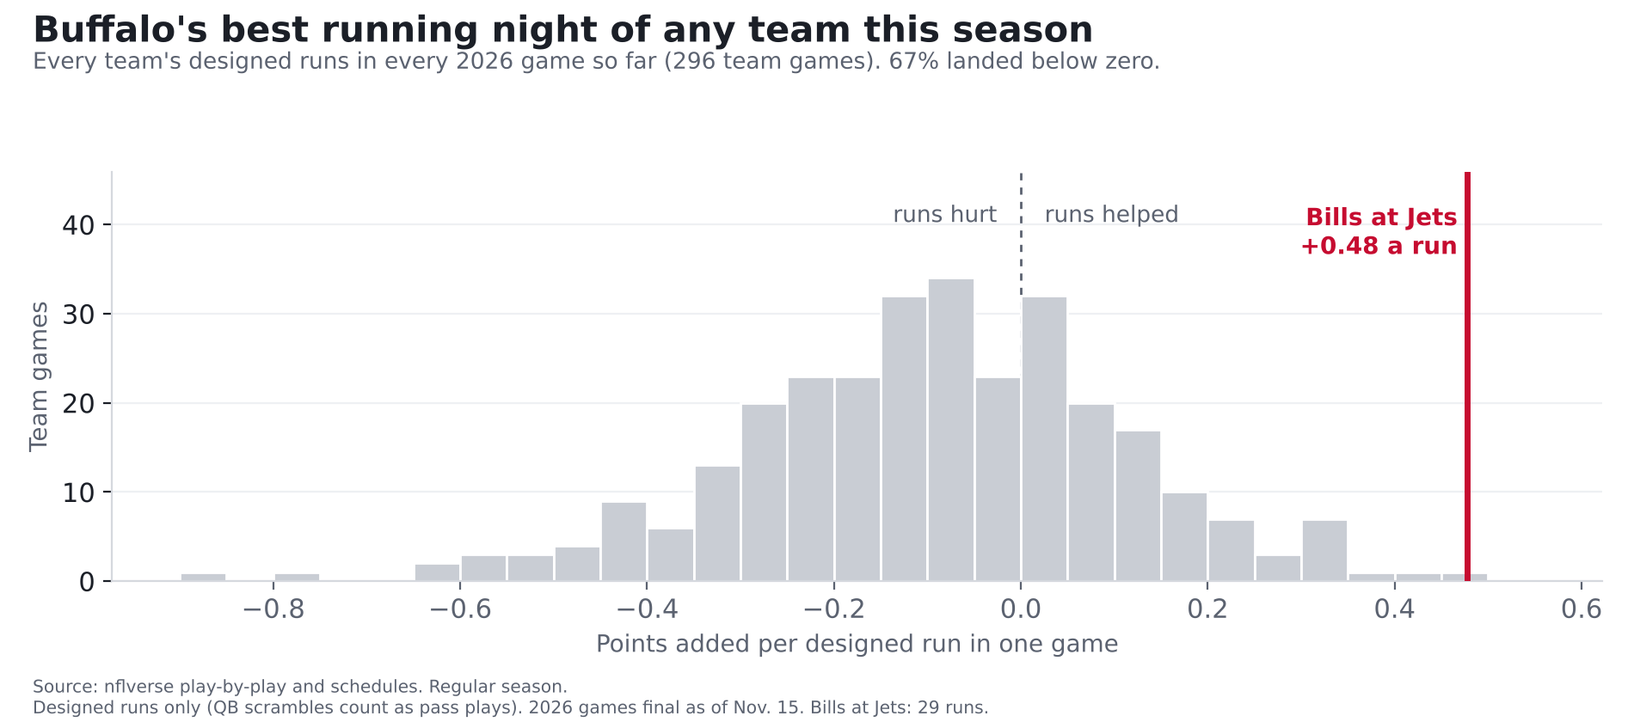
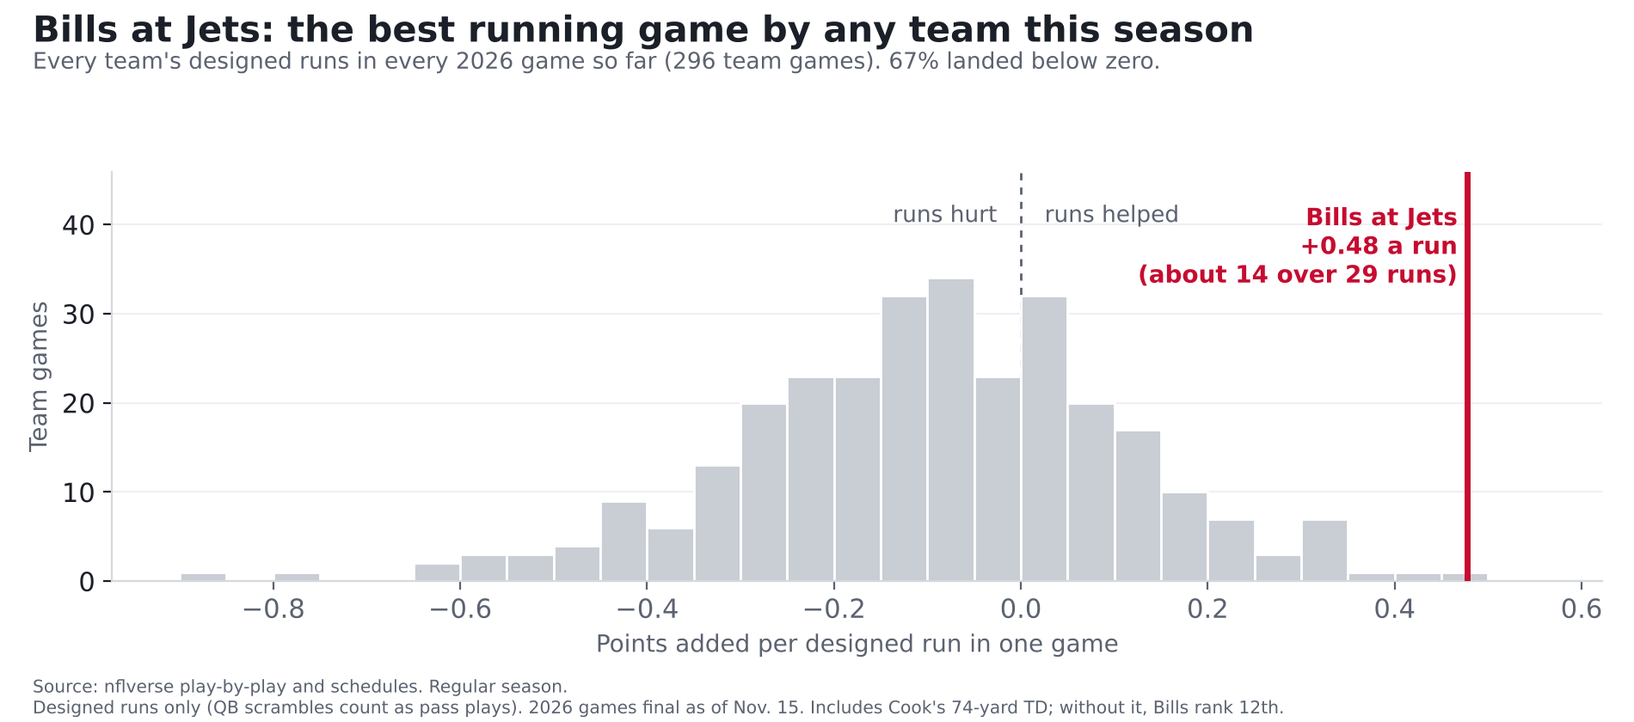
Bills-Jets post-game: reviewer fixes; Quant, Editor and final check pass
Claude-Session: https://claude.ai/code/session_01EpbAX7fMNT8LnsxAN6UoCp

Changed region(s): [[0.0311, 0.0, 0.7763, 0.0929], [0.4968, 0.9595, 0.7763, 0.9905], [0.6832, 0.3714, 0.9005, 0.4024]]

diff --git a/src/reports/wk10_postgame.py b/src/reports/wk10_postgame.py
@@ -119,6 +119,18 @@ def main():
     rv = rv[(rv.side == "off") & ~rv.game_id.isin(NOT_FINAL)].copy()
     buf_run_rank = int((rv.v > rv[(rv.game_id == GAME) & (rv.team == "BUF")].v.iloc[0]).sum()) + 1
     lg_run_below = float((rv.v < 0).mean())
+    others = rv[~((rv.game_id == GAME) & (rv.team == "BUF"))]
+    rank_wo_big = int((others.v > rest.epa.mean()).sum()) + 1
+    inj = query(f"""SELECT play_id, qtr, time, desc FROM raw_pbp WHERE game_id='{GAME}'
+                    AND (desc LIKE '%G.Smith was injured%' OR desc LIKE '%G.Smith has returned%') ORDER BY play_id""")
+    assert len(inj) == 2 and "injured" in inj.desc.iloc[0] and int(inj.qtr.iloc[0]) == 2 and int(inj.qtr.iloc[1]) == 3, inj
+    jd = query(f"""SELECT drive, MIN(play_id) p, GROUP_CONCAT(DISTINCT COALESCE(passer_player_id, rusher_player_id)) qbs FROM raw_pbp
+                   WHERE game_id='{GAME}' AND posteam='NYJ' AND qb_dropback=1 GROUP BY drive ORDER BY p""")
+    smith_q2 = d[(d.posteam == "NYJ") & (d.qb == SMITH) & (d.qtr == 2)]
+    assert int(smith_q2.play_id.max()) == int(inj.play_id.iloc[0]) and smith_q2.loc[smith_q2.play_id.idxmax()].att  # last throw of the half
+    assert not ((d.posteam == "NYJ") & (d.qtr == 2) & (d.play_id > inj.play_id.iloc[0])).any()
+    seq = list(jd.qbs)
+    assert seq[:4] == [SMITH] * 4 and seq[4] == KLUBNIK and seq[5] == SMITH and set(seq[6:]) == {KLUBNIK}, seq
     past_best = {y: game_values(y, "rush_epa").query("side == 'off' and team == 'BUF'").v.max() for y in (2023, 2024, 2025)}
     nyj_run = rv[(rv.game_id == GAME) & (rv.team == "NYJ")].iloc[0]
 
@@ -137,7 +149,8 @@ def main():
         a = x.groupby("defteam").points.agg(["sum", "size"])
         a["ppd"] = a["sum"] / a["size"]
         return a.loc["BUF", "ppd"], int(a.ppd.rank(method="min")["BUF"]), len(a), x.points.sum() / len(x)
-    d9, d10 = def_rank(PRE_THRU), def_rank(WEEK)
+    d7, d9, d10 = def_rank(7), def_rank(PRE_THRU), def_rank(WEEK)
+    assert d7[1] > d9[1] > d10[1]
     nxt = query(f"""SELECT gameday, away_team, home_team FROM raw_schedules WHERE season={SEASON}
                     AND (home_team='BUF' OR away_team='BUF') AND week={WEEK + 1}""").iloc[0]
     assert nxt.home_team == "BUF" and nxt.away_team == "MIA"
@@ -187,16 +200,16 @@ def main():
     bv = rv[(rv.game_id == GAME) & (rv.team == "BUF")].v.iloc[0]
     ax.axvline(0, color=MUTED, lw=1, ls=(0, (3, 3)), zorder=1)
     ax.axvline(bv, color=RED, lw=2.5, zorder=3)
-    ax.text(bv - 0.01, ax.get_ylim()[1] * 0.92, f"Bills at Jets\n{bv:+.2f} a run", ha="right", va="top", fontsize=10,
+    ax.text(bv - 0.01, ax.get_ylim()[1] * 0.92, f"Bills at Jets\n{bv:+.2f} a run\n(about {ru['BUF']['epa']:.0f} over {ru['BUF']['n']} runs)", ha="right", va="top", fontsize=10,
             color=RED, fontweight="bold")
     ax.text(-0.01, ax.get_ylim()[1] * 0.92, "runs hurt  ", ha="right", va="top", fontsize=9.5, color=MUTED)
     ax.text(0.01, ax.get_ylim()[1] * 0.92, "  runs helped", ha="left", va="top", fontsize=9.5, color=MUTED)
     ax.set_xlabel("Points added per designed run in one game", fontsize=10, color=MUTED)
     ax.set_ylabel("Team games", fontsize=10, color=MUTED)
     ax.grid(axis="y", color="#EEF0F3"); ax.set_axisbelow(True)
-    finish(fig, "Buffalo's best running night of any team this season",
+    finish(fig, "Bills at Jets: the best running game by any team this season",
            f"Every team's designed runs in every 2026 game so far ({len(rv)} team games). {lg_run_below:.0%} landed below zero.",
-           f"Designed runs only (QB scrambles count as pass plays). 2026 games final as of Nov. 15. Bills at Jets: {ru['BUF']['n']} runs.")
+           f"Designed runs only (QB scrambles count as pass plays). 2026 games final as of Nov. 15. Includes Cook's 74-yard TD; without it, Bills rank {ordn(rank_wo_big)}.")
     fig.savefig(OUT / "wk10d-run-nights.png"); plt.close(fig)
 
     # ---- scorecard table, plain English
@@ -216,8 +229,9 @@ def main():
     md = f"""# Bills {buf}, Jets {nyj}: our win call held, our run calls didn't
 
 **We gave the Bills a 75% chance to win and projected them for {proj['BUF']:.1f} points. They won {buf}-{nyj}. Our surest call, that the Bills'
-passing game would help more than it hurt, hit too. But we missed three calls, all built on the same idea: that running games usually hurt more
-than they help. Buffalo's designed runs had the best night of any team's this season, and the Jets' runs finished just above zero.**
+passing game would help more than it hurt, hit too. But we missed three calls. Two were run calls, built on the idea that running games usually
+hurt more than they help: counting every run, Buffalo's designed runs had the best game of any team's this season, and the Jets' runs helped, just barely. The third,
+on the Jets' passing game, was close to a coin flip.**
 
 *Bills at Jets, Sunday, Nov. 15, MetLife Stadium. Our prediction ran Saturday ([our preview](bills-jets-prediction.html)), and every call was
 logged on the [Ledger](../ledger.html) before kickoff. Here's how they did. League numbers are as of {AS_OF}.*
@@ -230,10 +244,12 @@ logged on the [Ledger](../ledger.html) before kickoff. Here's how they did. Leag
 |---|---|---|---|
 {rows}
 
+*Running-game calls count designed runs only; quarterback scrambles count as pass plays.*
+
 **What "helps" and "hurts" mean.** Every snap starts from a spot where an average offense can expect a certain number of points from the drive.
 A good play raises that number and a bad one lowers it. In the first quarter, on fourth-and-{int(ex.ydstogo)} from his own {100 - int(ex.yardline_100)},
-Josh Allen ran for {int(ex.yards_gained)} yards. That doesn't sound like much, but it kept the drive alive: Buffalo could expect about {ex.ep:.1f} points
-before the snap and about {ex.ep + ex.epa:.1f} after it, so the play was worth about {ex.epa:.1f} points. Add up every designed run, good and bad, and you get whether a team's running
+Josh Allen ran for {int(ex.yards_gained)} yards. That doesn't sound like much, but it kept the drive alive. Before the snap, Buffalo was a little more likely to give up
+the next score than to get it (about {ex.ep:.1f} points). After it, Buffalo could expect about {ex.ep + ex.epa:.1f}, so the play was worth about {ex.epa:.1f} points. Add up every designed run, good and bad, and you get whether a team's running
 game helped or hurt. Buffalo's added about {ru['BUF']['epa']:.0f}. That's not {ru['BUF']['epa']:.0f} points on the scoreboard. It means the runs kept
 moving drives toward points.
 
@@ -241,41 +257,41 @@ moving drives toward points.
 
 Our model expected Buffalo's designed runs to cost a little, the way most teams' do. In {lg_run_below:.0%} of {len(rv)} team games this season,
 a team's designed runs added up to less than zero. Instead, the Bills ran {ru['BUF']['n']} times for {ru['BUF']['yds']} yards, and the runs added
-about {ru['BUF']['epa']:.0f} points. Play for play, that's the best running night of any team this season ({ordn(buf_run_rank)} of {len(rv)}), and better
-than any Bills game in 2023, 2024 or 2025.
+about {ru['BUF']['epa']:.0f} points. Counting every run, that's the best running game by any team this season ({ordn(buf_run_rank)} of {len(rv)}),
+and better than any Bills game in 2023, 2024 or 2025. That counts James Cook's late 74-yard touchdown; without it, the game would rank
+{ordn(rank_wo_big)}. One game and {ru['BUF']['n']} runs is a small sample.
 
-![Every team's running night this season](wk10d-run-nights.png)
+![Every team's running game this season](wk10d-run-nights.png)
 
-**Was it one big run?** Partly. James Cook's 74-yard touchdown run, with {big_clock} left and the game already decided, was worth about {big.epa:.1f}
-points by itself. Take it out and Buffalo's other {len(rest)} designed runs still added about {rest.epa.sum():.0f} points. Count only the runs while the
+**Was it one big run?** Partly. Cook's 74-yard touchdown run, with {big_clock} left and the game all but decided (Buffalo had a
+{big.wp:.0%} chance to win), was worth about {big.epa:.1f} points by itself. Take it out and Buffalo's other {len(rest)} designed runs still added about {rest.epa.sum():.0f} points. Count only the runs while the
 game was still in doubt (each team with at least a 10% chance to win) and they still helped. Cook finished with {len(cook)} carries for
 {int(cook.yards_gained.sum())} yards. Allen's {len(allen)} designed runs gained only {int(allen.yards_gained.sum())} yards but added about {allen.epa.sum():.0f}
 points: two fourth-and-1 conversions and two 1-yard touchdowns. So this miss wasn't bad luck on one play. Buffalo ran the ball well
 all day, and our model didn't see it coming.
 
 **The Jets' runs: a coin on its edge.** We gave a 75% chance that the Jets' designed runs would hurt more than they helped. Over {ru['NYJ']['n']} runs
-they added {nyj_run.num:.1f} points, just barely above zero. By the rule we set before kickoff, that's a miss, and it counts. Last week, our call on
-the Bills' passing game hit by an even smaller margin.
+they added {nyj_run.num:.1f} points, just barely above zero. By the rule we set before kickoff, that's a miss, and it counts.
 
-## What we got right: the passing games and the win
+## The passing games and the win
 
 On {q['BUF']['db']} pass plays, Allen went {q['BUF']['cmp']} of {q['BUF']['att']} for {q['BUF']['yds']} yards with
 {q['BUF']['ints']} interception, and the passing game added about {q['BUF']['epa']:.0f} points. That's the call we gave 80%, and it hit.
 
-The Jets used two quarterbacks. Geno Smith ({jq['smith']['cmp']} of {jq['smith']['att']}, {jq['smith']['yds']} yards) and rookie Cade Klubnik split
-the third quarter, and Klubnik played the fourth ({jq['klubnik']['cmp']} of {jq['klubnik']['att']}, {jq['klubnik']['yds']} yards, {jq['klubnik']['ints']} interception,
-sacked {jq['klubnik']['sacks']} times). Together, the Jets' passing game cost them about {abs(q['NYJ']['epa']):.0f} points over {q['NYJ']['db']} pass plays.
+The Jets used two quarterbacks. Geno Smith started and was hurt on his last throw before halftime. Rookie Cade Klubnik opened the
+second half, Smith came back for one drive, and Klubnik played the rest. Smith went {jq['smith']['cmp']} of {jq['smith']['att']} for {jq['smith']['yds']} yards;
+Klubnik went {jq['klubnik']['cmp']} of {jq['klubnik']['att']} for {jq['klubnik']['yds']} yards with {jq['klubnik']['ints']} interception and was
+sacked {jq['klubnik']['sacks']} times. Together, the Jets' passing game cost them about {abs(q['NYJ']['epa']):.0f} points over {q['NYJ']['db']} pass plays.
 We had given 55% that it would help more than it hurt, close to a coin flip, so it's a miss, but not a confident one.
 
 The Jets scored {nyj} points on {int(drives.loc['NYJ', 'n'])} drives: {nyj_fg} field goals, no touchdowns, {nyj_to} turnovers and {nyj_downs} turnover on downs.
-Buffalo scored {buf} on {int(drives.loc['BUF', 'n'])} drives, with {buf_td} touchdowns. The Bills now allow about {d10[0]:.2f} points a drive
-({ordn(d10[1])} of {d10[2]} teams, league average {d10[3]:.2f}). They were {ordn(d9[1])} before Sunday.
+Buffalo scored {buf} on {int(drives.loc['BUF', 'n'])} drives, with {buf_td} touchdowns.
 
 ## The record
 
 **How we grade.** A call is a hit when the side we gave 50% or more happens. We also score every call by how far our chance was from what
 happened, squared, so a confident miss costs more than a timid one. This week our five calls scored {week_brier:.2f}; guessing 50/50 on every call
-would score 0.25, and lower is better. So this week we did worse than a coin flip, mostly because of the two run calls we were sure about.
+would score 0.25, and lower is better. So this week we did worse than a coin flip, mostly because of the two run calls we were most confident in.
 Across all {len(allg)} graded calls on the Ledger, Bills and Sabres, we're {all_hits} for {len(allg)} with a score of {all_brier:.2f}, a little better
 than 50/50. That's still a small record. It grows every week, misses included.
 
@@ -283,8 +299,10 @@ than 50/50. That's still a small record. It grows every week, misses included.
 
 - **Run calls need a better model.** Our run calls lean hard on "running games usually hurt," and two of them missed this week. Before we put
   run calls at 75% again, we'll check how often that confidence has held up for strong running teams.
-- **Our win projection was close.** We said {proj['BUF']:.1f} for Buffalo and they scored {buf}. The Jets' {nyj} came in well under our
+- **Our Bills score was close; the Jets' wasn't.** We said {proj['BUF']:.1f} for Buffalo and they scored {buf}. The Jets' {nyj} came in well under our
   {proj['NYJ']:.1f}, but inside the range we expected 8 games in 10 to land ({rng['NYJ'][0]:.0f} to {rng['NYJ'][1]:.0f}).
+- **The defense keeps climbing.** Buffalo now allows about {d10[0]:.2f} points a drive ({ordn(d10[1])} of {d10[2]} teams, league average
+  {d10[3]:.2f}). It was {ordn(d9[1])} before Sunday and {ordn(d7[1])} after week 7. Four teams hadn't played yet when we ran this, so that rank can still move.
 - **Next:** the Bills host Miami on {nxt_day}, with our predictions logged before kickoff.
 
 ## For the stat-heads
@@ -300,9 +318,10 @@ than 50/50. That's still a small record. It grows every week, misses included.
 - BUF EPA per designed run {ru['BUF']['epa'] / ru['BUF']['n']:+.3f} (n={ru['BUF']['n']}); without play {int(big.play_id)} (74-yard TD, win probability
   {big.wp:.2f} before the snap) {rest.epa.mean():+.3f} (n={len(rest)}); win probability 0.10-0.90 only {close.epa.mean():+.3f} (n={len(close)}). Rank 1 = best
   of {len(rv)} 2026 team-games final as of {AS_OF}. Best BUF game by the same measure: 2023 {past_best[2023]:+.3f}, 2024 {past_best[2024]:+.3f},
-  2025 {past_best[2025]:+.3f}.
-- NYJ dropbacks: Smith {jq['smith']['db']} (EPA {jq['smith']['epa']:+.1f}), Klubnik {jq['klubnik']['db']} (EPA {jq['klubnik']['epa']:+.1f}). We don't
-  say why the Jets changed quarterbacks; the play-by-play doesn't tell us.
+  2025 {past_best[2025]:+.3f}. Without play {int(big.play_id)}, BUF would rank {rank_wo_big} of {len(rv)}.
+- NYJ dropbacks: Smith {jq['smith']['db']} (EPA {jq['smith']['epa']:+.1f}), Klubnik {jq['klubnik']['db']} (EPA {jq['klubnik']['epa']:+.1f}). The play-by-play
+  notes Smith was injured on play {int(inj.play_id.iloc[0])} ({inj.time.iloc[0]}, 2nd quarter) and returned on play {int(inj.play_id.iloc[1])} ({inj.time.iloc[1]}, 3rd quarter);
+  it doesn't say why Klubnik took over again after that drive.
 - BUF points allowed per drive, regular season: through week {PRE_THRU} {d9[0]:.3f} ({d9[1]} of {d9[2]}); through week {WEEK} games final as of this
   run {d10[0]:.3f} ({d10[1]} of {d10[2]}).
 - Hit rule: the side given 50% or more happens (`ledger.summary`). The logged Ledger wording for P0012-P0016 is unchanged; this story uses the
@@ -312,7 +331,7 @@ than 50/50. That's still a small record. It grows every week, misses included.
     (OUT / f"{SLUG}.hero.json").write_text(json.dumps({
         "label": "Sunday, graded",
         "big": [[buf, f"Bills (we said {proj['BUF']:.1f})"], [nyj, f"Jets (we said {proj['NYJ']:.1f})"]],
-        "note": f"{week_hits} of 5 Ledger calls right: the win and the Bills' passing game. All three misses were run calls.",
+        "note": f"{week_hits} of 5 Ledger calls right: the win and the Bills' passing game. Two of the three misses were run calls.",
         "explainer": {"kicker": "Receipts", "title": "Every call graded, hit or miss.",
                       "text": "Our calls' score this week vs. guessing 50/50 on every one (lower is better):",
                       "fmt": "score", "bars": [["Our calls", round(float(week_brier), 2)], ["50/50 guess", 0.25]]},

diff --git a/src/site/build.py b/src/site/build.py
@@ -19,7 +19,7 @@ SITE = ROOT / "site"
 DOMAIN = "https://buffaloquant.com"
 ARTICLES = [  # newest first: (slug, report file, date, kicker, dek, hero image)
     ("bills-jets-postgame", "2026-wk10-postgame.md", "2026-11-15", "Bills &middot; Week 10 post-game",
-     "We projected the Bills for 29.9. They scored 31 and won, and our surest call, on Buffalo's passing game, hit. All three misses were run calls: the Bills had the best running night of any team this season.",
+     "We projected the Bills for 29.9. They scored 31 and won, and our surest call, on Buffalo's passing game, hit. Two of our three misses were run calls: counting every run, the Bills had the best running game of any team this season.",
      "wk10d-proj-vs-final.png"),
     ("bills-jets-prediction", "2026-wk10-bills-at-jets.md", "2026-11-14", "Bills &middot; Week 10 preview",
      "We project Bills 29.9, Jets 22.1: a 75% chance Buffalo wins. The biggest mismatch is the Bills' passing game against one of the NFL's leakiest pass defenses.",

diff --git a/reports/2026-wk10-postgame.md b/reports/2026-wk10-postgame.md
@@ -1,8 +1,9 @@
 # Bills 31, Jets 12: our win call held, our run calls didn't
 
 **We gave the Bills a 75% chance to win and projected them for 29.9 points. They won 31-12. Our surest call, that the Bills'
-passing game would help more than it hurt, hit too. But we missed three calls, all built on the same idea: that running games usually hurt more
-than they help. Buffalo's designed runs had the best night of any team's this season, and the Jets' runs finished just above zero.**
+passing game would help more than it hurt, hit too. But we missed three calls. Two were run calls, built on the idea that running games usually
+hurt more than they help: counting every run, Buffalo's designed runs had the best game of any team's this season, and the Jets' runs helped, just barely. The third,
+on the Jets' passing game, was close to a coin flip.**
 
 *Bills at Jets, Sunday, Nov. 15, MetLife Stadium. Our prediction ran Saturday ([our preview](bills-jets-prediction.html)), and every call was
 logged on the [Ledger](../ledger.html) before kickoff. Here's how they did. League numbers are as of Sunday night, Nov. 15 (the Sunday and Monday night games weren't final yet).*
@@ -19,10 +20,12 @@ logged on the [Ledger](../ledger.html) before kickoff. Here's how they did. Leag
 | Bills' running game (designed runs) hurts more than it helps | 66% | Helped: added about 14 points over 29 designed runs | **Miss** |
 | Jets' running game (designed runs) hurts more than it helps | 75% | Helped: added 1.1 points over 20 designed runs | **Miss** |
 
+*Running-game calls count designed runs only; quarterback scrambles count as pass plays.*
+
 **What "helps" and "hurts" mean.** Every snap starts from a spot where an average offense can expect a certain number of points from the drive.
 A good play raises that number and a bad one lowers it. In the first quarter, on fourth-and-1 from his own 37,
-Josh Allen ran for 2 yards. That doesn't sound like much, but it kept the drive alive: Buffalo could expect about -0.5 points
-before the snap and about 1.8 after it, so the play was worth about 2.3 points. Add up every designed run, good and bad, and you get whether a team's running
+Josh Allen ran for 2 yards. That doesn't sound like much, but it kept the drive alive. Before the snap, Buffalo was a little more likely to give up
+the next score than to get it (about -0.5 points). After it, Buffalo could expect about 1.8, so the play was worth about 2.3 points. Add up every designed run, good and bad, and you get whether a team's running
 game helped or hurt. Buffalo's added about 14. That's not 14 points on the scoreboard. It means the runs kept
 moving drives toward points.
 
@@ -30,41 +33,41 @@ moving drives toward points.
 
 Our model expected Buffalo's designed runs to cost a little, the way most teams' do. In 67% of 296 team games this season,
 a team's designed runs added up to less than zero. Instead, the Bills ran 29 times for 204 yards, and the runs added
-about 14 points. Play for play, that's the best running night of any team this season (1st of 296), and better
-than any Bills game in 2023, 2024 or 2025.
+about 14 points. Counting every run, that's the best running game by any team this season (1st of 296),
+and better than any Bills game in 2023, 2024 or 2025. That counts James Cook's late 74-yard touchdown; without it, the game would rank
+12th. One game and 29 runs is a small sample.
 
-![Every team's running night this season](wk10d-run-nights.png)
+![Every team's running game this season](wk10d-run-nights.png)
 
-**Was it one big run?** Partly. James Cook's 74-yard touchdown run, with 4:52 left and the game already decided, was worth about 6.4
-points by itself. Take it out and Buffalo's other 28 designed runs still added about 7 points. Count only the runs while the
+**Was it one big run?** Partly. Cook's 74-yard touchdown run, with 4:52 left and the game all but decided (Buffalo had a
+98% chance to win), was worth about 6.4 points by itself. Take it out and Buffalo's other 28 designed runs still added about 7 points. Count only the runs while the
 game was still in doubt (each team with at least a 10% chance to win) and they still helped. Cook finished with 18 carries for
 157 yards. Allen's 4 designed runs gained only 6 yards but added about 6
 points: two fourth-and-1 conversions and two 1-yard touchdowns. So this miss wasn't bad luck on one play. Buffalo ran the ball well
 all day, and our model didn't see it coming.
 
 **The Jets' runs: a coin on its edge.** We gave a 75% chance that the Jets' designed runs would hurt more than they helped. Over 20 runs
-they added 1.1 points, just barely above zero. By the rule we set before kickoff, that's a miss, and it counts. Last week, our call on
-the Bills' passing game hit by an even smaller margin.
+they added 1.1 points, just barely above zero. By the rule we set before kickoff, that's a miss, and it counts.
 
-## What we got right: the passing games and the win
+## The passing games and the win
 
 On 22 pass plays, Allen went 11 of 21 for 196 yards with
 1 interception, and the passing game added about 5 points. That's the call we gave 80%, and it hit.
 
-The Jets used two quarterbacks. Geno Smith (13 of 21, 148 yards) and rookie Cade Klubnik split
-the third quarter, and Klubnik played the fourth (11 of 20, 137 yards, 1 interception,
-sacked 3 times). Together, the Jets' passing game cost them about 9 points over 48 pass plays.
+The Jets used two quarterbacks. Geno Smith started and was hurt on his last throw before halftime. Rookie Cade Klubnik opened the
+second half, Smith came back for one drive, and Klubnik played the rest. Smith went 13 of 21 for 148 yards;
+Klubnik went 11 of 20 for 137 yards with 1 interception and was
+sacked 3 times. Together, the Jets' passing game cost them about 9 points over 48 pass plays.
 We had given 55% that it would help more than it hurt, close to a coin flip, so it's a miss, but not a confident one.
 
 The Jets scored 12 points on 11 drives: 4 field goals, no touchdowns, 2 turnovers and 1 turnover on downs.
-Buffalo scored 31 on 11 drives, with 4 touchdowns. The Bills now allow about 1.99 points a drive
-(14th of 32 teams, league average 2.05). They were 16th before Sunday.
+Buffalo scored 31 on 11 drives, with 4 touchdowns.
 
 ## The record
 
 **How we grade.** A call is a hit when the side we gave 50% or more happens. We also score every call by how far our chance was from what
 happened, squared, so a confident miss costs more than a timid one. This week our five calls scored 0.28; guessing 50/50 on every call
-would score 0.25, and lower is better. So this week we did worse than a coin flip, mostly because of the two run calls we were sure about.
+would score 0.25, and lower is better. So this week we did worse than a coin flip, mostly because of the two run calls we were most confident in.
 Across all 16 graded calls on the Ledger, Bills and Sabres, we're 10 for 16 with a score of 0.24, a little better
 than 50/50. That's still a small record. It grows every week, misses included.
 
@@ -72,8 +75,10 @@ than 50/50. That's still a small record. It grows every week, misses included.
 
 - **Run calls need a better model.** Our run calls lean hard on "running games usually hurt," and two of them missed this week. Before we put
   run calls at 75% again, we'll check how often that confidence has held up for strong running teams.
-- **Our win projection was close.** We said 29.9 for Buffalo and they scored 31. The Jets' 12 came in well under our
+- **Our Bills score was close; the Jets' wasn't.** We said 29.9 for Buffalo and they scored 31. The Jets' 12 came in well under our
   22.1, but inside the range we expected 8 games in 10 to land (10 to 34).
+- **The defense keeps climbing.** Buffalo now allows about 1.99 points a drive (14th of 32 teams, league average
+  2.05). It was 16th before Sunday and 30th after week 7. Four teams hadn't played yet when we ran this, so that rank can still move.
 - **Next:** the Bills host Miami on Sunday, Nov. 22, with our predictions logged before kickoff.
 
 ## For the stat-heads
@@ -89,9 +94,10 @@ than 50/50. That's still a small record. It grows every week, misses included.
 - BUF EPA per designed run +0.477 (n=29); without play 3897 (74-yard TD, win probability
   0.98 before the snap) +0.267 (n=28); win probability 0.10-0.90 only +0.325 (n=24). Rank 1 = best
   of 296 2026 team-games final as of Sunday night, Nov. 15 (the Sunday and Monday night games weren't final yet). Best BUF game by the same measure: 2023 +0.269, 2024 +0.333,
-  2025 +0.432.
-- NYJ dropbacks: Smith 22 (EPA -3.4), Klubnik 26 (EPA -5.5). We don't
-  say why the Jets changed quarterbacks; the play-by-play doesn't tell us.
+  2025 +0.432. Without play 3897, BUF would rank 12 of 296.
+- NYJ dropbacks: Smith 22 (EPA -3.4), Klubnik 26 (EPA -5.5). The play-by-play
+  notes Smith was injured on play 2022 (00:25, 2nd quarter) and returned on play 2656 (07:54, 3rd quarter);
+  it doesn't say why Klubnik took over again after that drive.
 - BUF points allowed per drive, regular season: through week 9 2.101 (16 of 32); through week 10 games final as of this
   run 1.990 (14 of 32).
 - Hit rule: the side given 50% or more happens (`ledger.summary`). The logged Ledger wording for P0012-P0016 is unchanged; this story uses the

diff --git a/reports/reviews/2026-wk10-postgame-quant.md b/reports/reviews/2026-wk10-postgame-quant.md
@@ -1,0 +1,46 @@
+# Quant re-check (stage 2, revised text): reports/2026-wk10-postgame.md
+
+**Verdict: PASS (publish).** All 7 required fixes from the first review are applied and correct. The new numbers and claims re-derive from the database (checks below). There are no new issues.
+
+## The 7 fixes
+1. **Lead:** names two run-call misses plus the Jets passing-game near coin flip. This matches the ledger: P0014, P0015 and P0016 missed.
+2. **Hero note and site dek:** both say "Two of the three misses were run calls." The dek adds "counting every run" and "running game".
+3. **Heading:** "The passing games and the win".
+4. **QB sequence:** verified from raw_pbp, by drive, using the passer or the rusher on scrambles.
+   - Smith ran NYJ drives 2, 4, 6 and 8. Klubnik ran drive 10. Smith ran drive 12. Klubnik ran drives 14 through 21.
+   - Play 2022 is the Jets' last dropback of the first half, and its description says Smith was injured.
+   - Play 2656 says he returned.
+   - So "hurt on his last throw before halftime", "Smith came back for one drive" and "Klubnik played the rest" are all correct. The stat-heads note cites both plays and says the play-by-play doesn't explain the second switch.
+5. **Rank without the 74-yard TD:** I get 12th of 296 independently (+0.267 vs the other 295 team games). It's stated in the body, the chart footer and the stat-heads. The small-sample line ("One game and 29 runs") is present.
+6. **Scramble note:** now sits directly under the calls table.
+7. **Bullet:** reads "Our Bills score was close; the Jets' wasn't." Numbers: 29.9 vs 31, 22.1 vs 12, range 10 to 34.
+
+## New wording checked
+- **"Buffalo was a little more likely to give up the next score than to get it (about -0.5 points)"** (play 129). nflverse's next-score chances agree: Jets 0.542, Bills 0.452, no score 0.006. EP is -0.52.
+- **"The defense keeps climbing ... up from 16th."** Buffalo's points-allowed-per-drive rank by week:
+
+  | Through week | Rank |
+  |---|---|
+  | 7 | 30th |
+  | 8 | 25th |
+  | 9 | 16th |
+  | 10 | 14th (1.990; league average 2.05) |
+
+  Three straight weekly gains, so "keeps climbing" is supported. The note that four teams hadn't played is correct (PIT, CIN, LAC, BAL).
+- **"all but decided (Buffalo had a 98% chance to win)":** win probability before the snap on play 3897 is 0.982.
+- **"night" -> "game":** changed in the body, the chart title and the image alt text. **"most confident in"** is present.
+- **Run chart:** opened. The title reads on its own. The label says "+0.48 a run (about 14 over 29 runs)", which matches +13.84 over 29. The footer gives the source, 296 team games, the scramble note and the 12th-without-the-run note. No overlaps.
+
+## Unchanged numbers, re-confirmed against the current text
+- Score 31-12. Projections 29.86 / 22.08, P(BUF win) 0.7466.
+- Bills passing: 22 pass plays, Allen 11/21, 196 yards, 1 INT, +4.63. Jets passing: 48 pass plays, -8.95.
+- Smith: 13/21, 148 yards, -3.44. Klubnik: 11/20, 137 yards, 1 INT, 3 sacks, -5.51.
+- Bills runs: 29 for 204 yards, +13.84 (+0.477 a run). Without the 74-yard run: 28 runs, +7.48. Close-game runs: 24, +0.325 a run.
+- Cook: 18 carries, 157 yards. The 74-yard run was worth +6.36. Allen: 4 runs, 6 yards, +5.98.
+- Jets runs: 20, +1.125.
+- League: 67% of 296 team games had runs below zero. Best Bills game by year: 0.269 / 0.333 / 0.432.
+- Drives: 11 and 11. Jets: 4 field goals, 2 turnovers, 1 turnover on downs. Bills: 4 TDs.
+- Ledger: Brier 0.2806 this week. Overall 10 of 16, 0.2384.
+- No betting language. No jargon in the body.
+
+I did not re-run the generator, because it writes to reports/. The self-check stage covers whether it reproduces the committed files.

diff --git a/reports/reviews/2026-wk10-postgame-editor.md b/reports/reviews/2026-wk10-postgame-editor.md
@@ -1,0 +1,22 @@
+# Editor re-review (stage 3, round 2): reports/2026-wk10-postgame.md
+
+**Radio version:** "We gave the Bills a 75% chance and had them scoring about 30. They won 31-12. But the Bills had the best running game of any team this season, and that's exactly the call our model got wrong."
+
+**Verdict: ready (PASS).**
+
+## Round-1 required fixes, checked
+1. The "all three misses were run calls" error is fixed in the lead, the hero note and the dek. All three now say two of the three misses were run calls, which matches the calls table and "What it means".
+2. The scramble note now sits directly under the calls table.
+3. The QB sentence reads clearly: Smith started and was hurt before halftime, Klubnik opened the second half, Smith came back for one drive, and Klubnik played the rest.
+
+## New text, checked
+- **The Cook caveat** (body, chart footer, stat-heads) is plain and honest. It fits the "Was it one big run?" section: without the touchdown, the game still ranks 12th of 296 and the other 28 runs still added about 7 points, so "this miss wasn't bad luck on one play" holds.
+- **The run chart** now works on its own. The title is the takeaway, the label carries both the per-run number and the total, and the footer has the scramble note and the Cook caveat.
+- **Hero and dek** each make sense alone. "Counting every run" in the dek is a good qualifier.
+- **"Night" changed to "game"** everywhere. It reads fine.
+- There is no betting language, and stat terms appear only in "For the stat-heads".
+
+## Optional polish (not blocking)
+- Lead: "Buffalo's designed runs had the best game of any team's this season" -> "Buffalo's designed runs, counting every run, had the best game of any team's this season". This would match the dek.
+- "**The defense keeps climbing.**" "Keeps" suggests a trend over several weeks, but the story shows one move (16th to 14th). Consider "**The defense moved up.**"
+- "Last week, our call on the Bills' passing game hit by an even smaller margin." It's vague without the margin. Give the number or cut the sentence.

diff --git a/reports/reviews/2026-wk10-postgame-final.md b/reports/reviews/2026-wk10-postgame-final.md
@@ -1,0 +1,25 @@
+# Final check (stage 4): reports/2026-wk10-postgame.md, sha256 fc556fa23216...
+
+**Verdict: PASS (publish).**
+
+## What changed since my stage-2 pass
+I compared the current text with the text I passed and found exactly the three edits the coordinator listed. Nothing else changed. The hero JSON and site dek are the same as at my pass.
+
+1. **Lead:** "counting every run, Buffalo's designed runs had the best game of any team's this season".
+   - Correct: Buffalo ranks 1st of 296, at +0.477 a run and +13.84 in total.
+   - Counting every run is the measure the rank uses. The body gives the 12th-place rank without the 74-yard TD.
+2. **Cut:** "Last week, our call on the Bills' passing game hit by an even smaller margin." Removing it leaves no dangling reference, and no other claim depended on it.
+3. **Defense bullet:** "It was 16th before Sunday and 30th after week 7."
+   - I computed the ranks independently from clean_drives (regular season, SNF/MNF excluded). Buffalo's points allowed per drive and rank:
+
+     | Through week | Points allowed per drive | Rank |
+     |---|---|---|
+     | 7 | 2.672 | 30th |
+     | 8 | 2.351 | 25th |
+     | 9 | 2.101 | 16th |
+     | 10 | 1.990 | 14th |
+
+   - League average is 2.05. "Keeps climbing" holds.
+
+## Everything else
+The rest of the text is unchanged from what I verified at stage 2: the score, projections, passing and running totals, QB splits and drive-by-drive sequence, the Cook and Allen runs, the rank with and without the 74-yard TD, drives, and the Ledger record (10 of 16, 0.24; 0.28 this week). No betting language and no jargon in the body.
